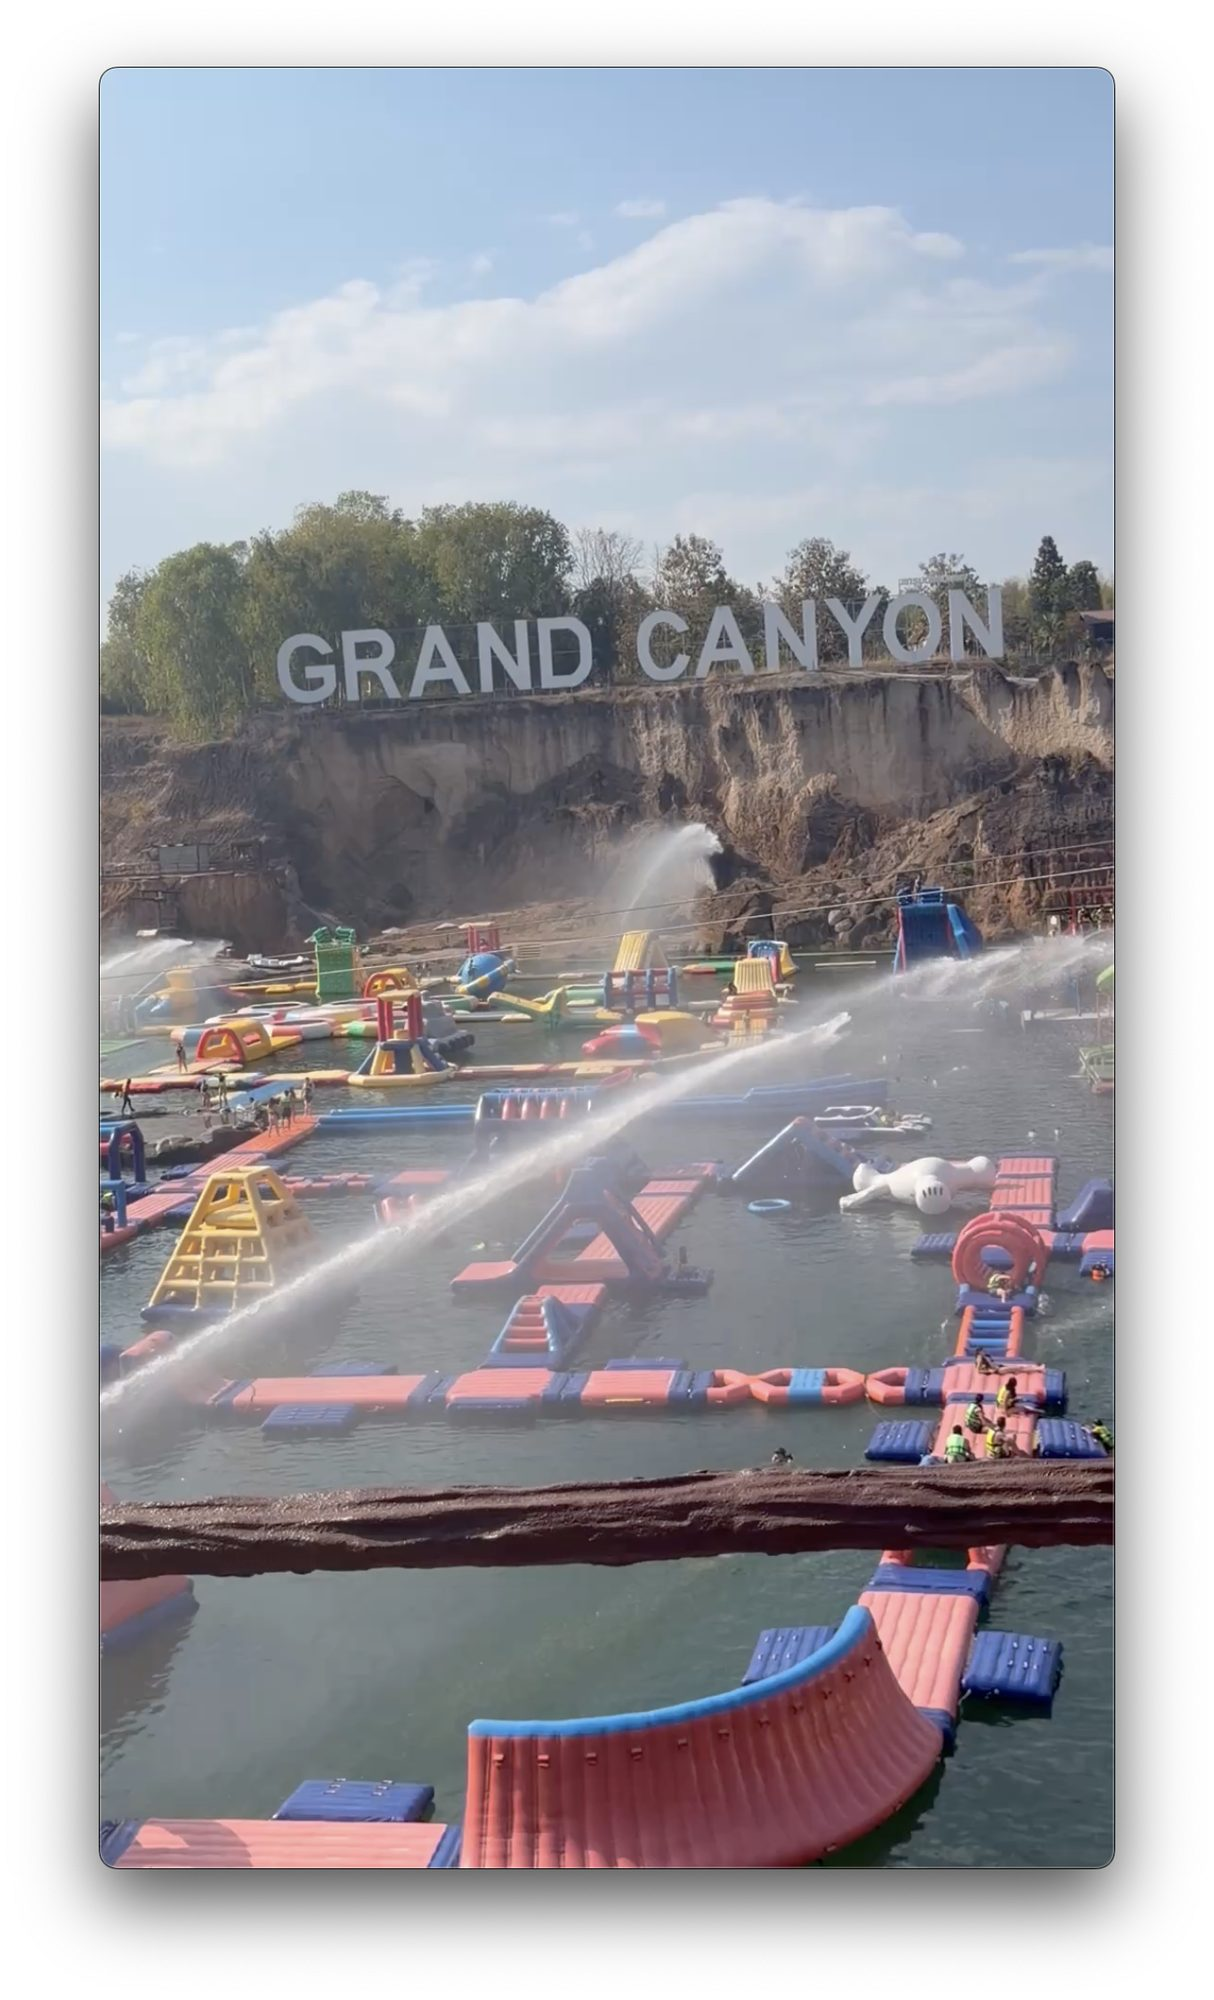
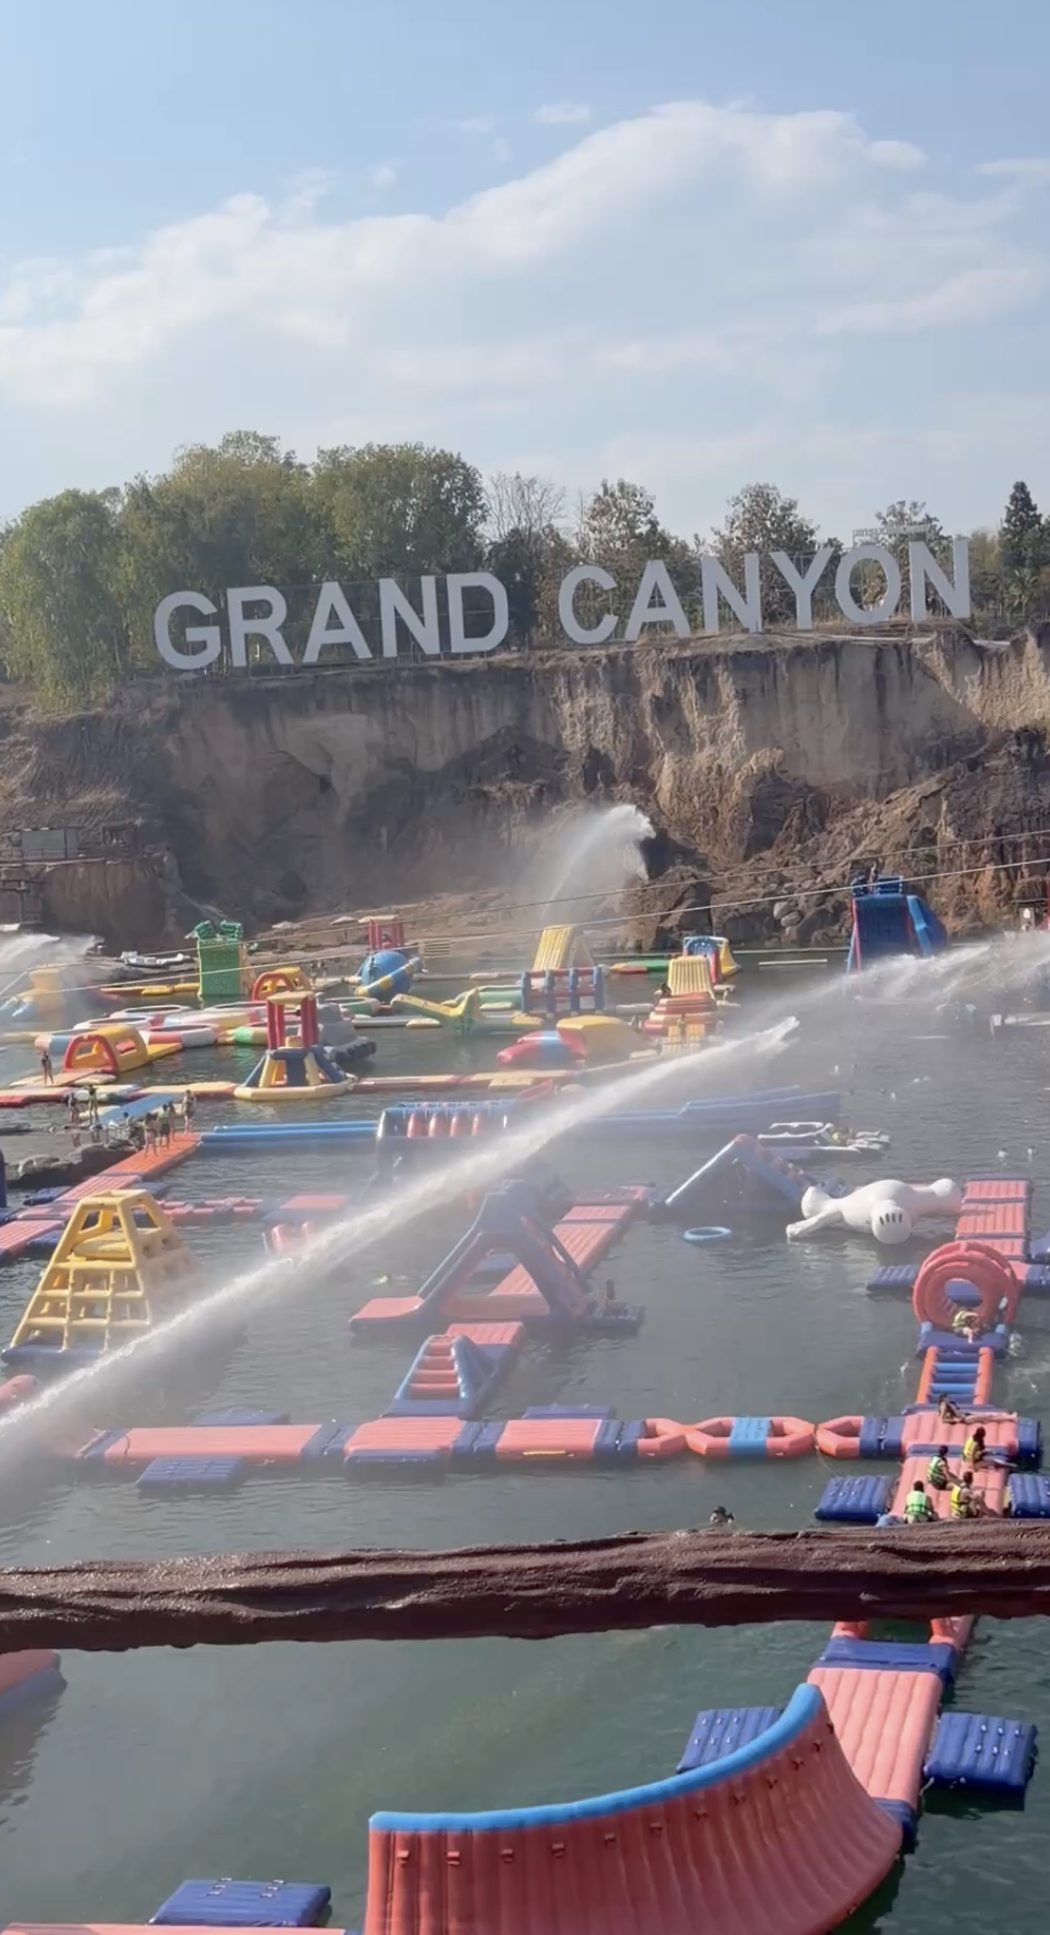
Fix Grand Canyon photo, remove duplicate cover photos, add globe intro spin

diff --git a/site/index.html b/site/index.html
@@ -156,10 +156,6 @@
 					<section id="th-chiang-mai" class="travel-detail" hidden>
 						<h3>Chiang Mai</h3>
 						<div class="travel-gallery">
-							<button type="button" class="gallery-item"><img src="images/thailand/thumbs/thailand.jpg"
-									data-full="images/thailand/thailand.jpg"
-									alt="The ruined brick chedi of Wat Chedi Luang"
-									data-caption="Wat Chedi Luang&#x27;s huge, half-ruined chedi." loading="lazy" /></button>
 							<button type="button" class="gallery-item"><img src="images/thailand/chiang-mai/thumbs/chiang_mai_wat_chedi_luang.jpg"
 									data-full="images/thailand/chiang-mai/chiang_mai_wat_chedi_luang.jpg"
 									alt="Wat Chedi Luang&#x27;s brick chedi under a blue sky"
@@ -384,10 +380,6 @@
 									data-full="images/cambodia/siem-reap/siem_reap_temple_passage.jpg"
 									alt="Light coming through a crumbling stone passage"
 									data-caption="Light coming through a crumbling passage." loading="lazy" /></button>
-							<button type="button" class="gallery-item"><img src="images/cambodia/thumbs/cambodia.jpg"
-									data-full="images/cambodia/cambodia.jpg"
-									alt="Carved stone devatas on a temple gopura at Ta Prohm"
-									data-caption="Carvings at Ta Prohm. Every inch of stone is covered." loading="lazy" /></button>
 							<button type="button" class="gallery-item"><img src="images/cambodia/siem-reap/thumbs/siem_reap_arrival_sunset.jpg"
 									data-full="images/cambodia/siem-reap/siem_reap_arrival_sunset.jpg"
 									alt="Sunset over the highway, seen from a tuk-tuk on the way into Siem Reap"
@@ -997,10 +989,6 @@
 					<section id="vn-ninh-binh" class="travel-detail" hidden>
 						<h3>Ninh Binh</h3>
 						<div class="travel-gallery">
-							<button type="button" class="gallery-item"><img src="images/vietnam/thumbs/vietnam.jpg"
-									data-full="images/vietnam/vietnam.jpg"
-									alt="The view from Hang Mua over karst peaks and rice fields"
-									data-caption="The view from Hang Mua. Worth every one of the stairs." loading="lazy" /></button>
 							<button type="button" class="gallery-item"><img src="images/vietnam/ninh-binh/thumbs/ninh_binh_hang_mua_view.jpg"
 									data-full="images/vietnam/ninh-binh/ninh_binh_hang_mua_view.jpg"
 									alt="Karst peaks and rice fields seen from a mountaintop"

diff --git a/site/assets/css/travel.css b/site/assets/css/travel.css
@@ -8,6 +8,28 @@
 	width: 52rem;
 }
 
+/* ---- Intro: spin the globe logo once when the page loads ---- */
+
+/* Spins around its vertical axis like a real globe. The template's
+   is-preload class pauses all animations until the page is ready, so this
+   starts together with the header fade-in. */
+#header .logo .icon {
+	display: inline-block;
+	animation: globe-spin 1.6s ease-in-out 0.4s 1 both;
+}
+
+@keyframes globe-spin {
+	from { transform: rotateY(0deg); }
+	to   { transform: rotateY(720deg); }
+}
+
+/* Skip the spin for visitors who have asked their device to reduce motion. */
+@media (prefers-reduced-motion: reduce) {
+	#header .logo .icon {
+		animation: none;
+	}
+}
+
 /* ---- Destination card grid ---- */
 
 .travel-grid {
